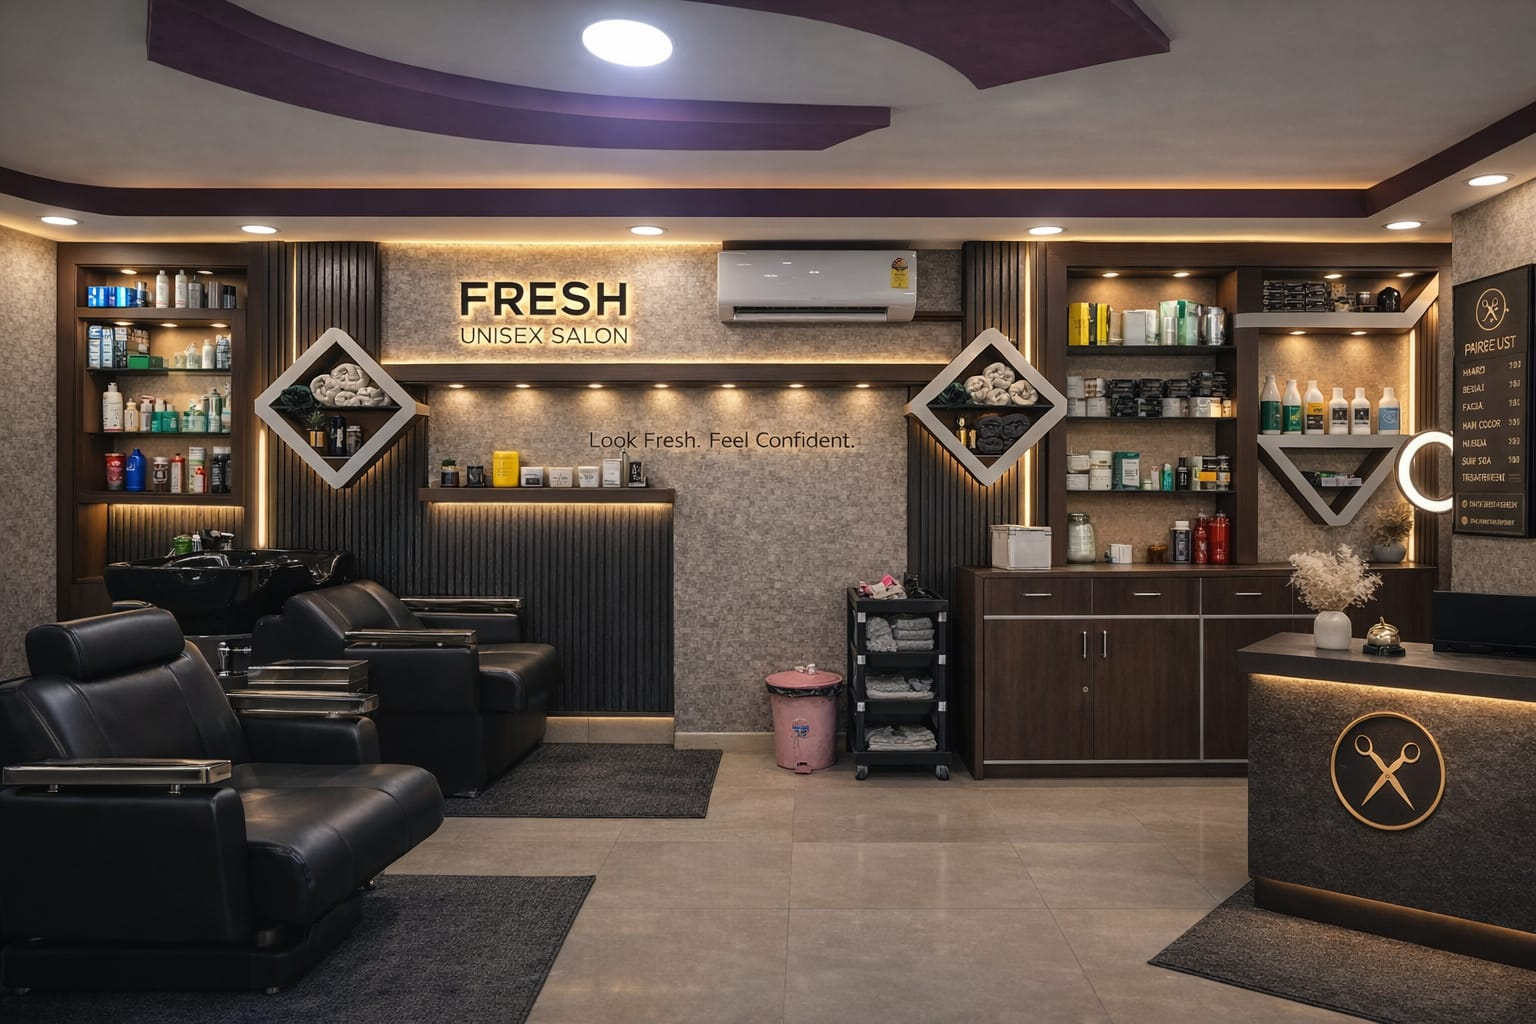
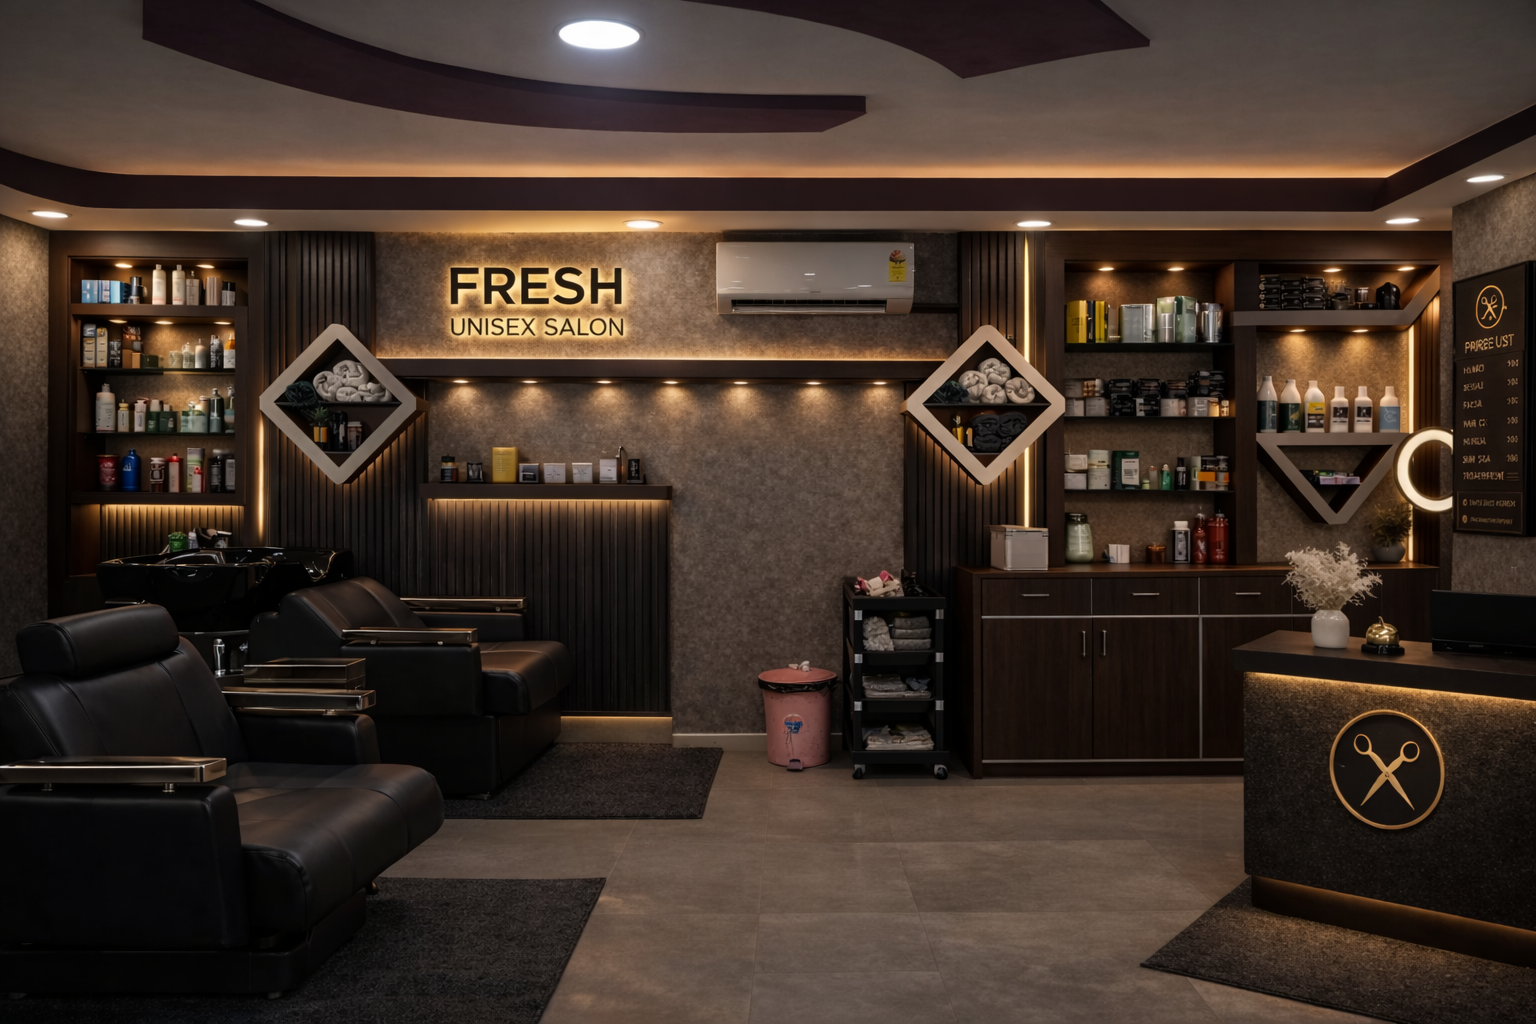
feat: refine hero UI, fix PWA manifest, and adjust mobile assets

diff --git a/src/components/HeroSection.tsx b/src/components/HeroSection.tsx
@@ -2,19 +2,34 @@ import { motion } from 'framer-motion';
 import { Star } from 'lucide-react';
 import heroImage from '@/assets/hero-image.jpg';
 
+import mobileImage from '@/assets/mobile.png';
+import dayImage from '@/assets/day.png';
+
 export function HeroSection() {
   return (
-    <section className="relative h-[calc(100svh-56px)] md:h-screen w-full overflow-hidden grain">
+    <section className="relative h-[calc(100svh-56px)] md:h-screen w-full overflow-hidden">
       {/* Image Background */}
       <div className="absolute inset-0 z-0">
+        {/* Desktop Image - Cover */}
         <img
           src={heroImage}
           alt="Fresh Unisex Saloon - Premium grooming"
-          className="w-full h-full object-cover hero-image"
+          className="hidden md:block w-full h-full object-cover hero-image"
         />
-        {/* Enhanced gradient overlay - stronger at top for text contrast */}
-        <div className="absolute inset-0 bg-black/0 dark:bg-black/40 transition-colors duration-500" />
-        <div className="absolute inset-0 bg-gradient-to-b from-background/10 via-background/20 to-background/40 dark:from-background/80 dark:via-background/40 dark:to-background/60 lg:dark:from-background/60" />
+
+        {/* Mobile Dark Image (Default) - Fill */}
+        <img
+          src={mobileImage}
+          alt="Fresh Unisex Saloon - Premium grooming"
+          className="md:hidden block [.light_&]:hidden w-full h-full object-fill hero-image"
+        />
+
+        {/* Mobile Day Image - Fill */}
+        <img
+          src={dayImage}
+          alt="Fresh Unisex Saloon - Premium grooming"
+          className="md:hidden hidden [.light_&]:block w-full h-full object-fill hero-image"
+        />
       </div>
 
       {/* Left vertical text */}
@@ -28,83 +43,9 @@ export function HeroSection() {
       <div className="relative z-20 h-full flex flex-col justify-between pt-20 pb-6 md:justify-center md:pt-20 md:pb-0 px-6 lg:px-24 lg:justify-start lg:pt-32 xl:px-32 xl:pt-40 2xl:px-40">
         {/* Main content group */}
         <div className="md:flex-1 md:flex md:flex-col md:justify-center">
-          {/* Label */}
-          <motion.p
-            initial={{ opacity: 0, y: 20 }}
-            animate={{ opacity: 1, y: 0 }}
-            transition={{ duration: 0.8, delay: 0.3 }}
-            className="font-sans text-[9px] md:text-[10px] uppercase tracking-ultra text-primary mb-4 md:mb-8 lg:mb-10 xl:mb-12"
-          >
-            Professional Grooming
-          </motion.p>
 
-          {/* Main Headline - Tighter spacing on mobile */}
-          <motion.h1
-            initial={{ opacity: 0 }}
-            animate={{ opacity: 1 }}
-            transition={{ duration: 1, delay: 0.5 }}
-            className="font-serif tracking-tight mb-5 md:mb-10 hero-text"
-          >
-            <motion.span
-              initial={{ opacity: 0, x: -30 }}
-              animate={{ opacity: 1, x: 0 }}
-              transition={{ duration: 0.8, delay: 0.6 }}
-              className="block text-foreground text-[3.25rem] sm:text-7xl md:text-8xl lg:text-9xl leading-[0.9] md:leading-[0.85] lg:leading-[0.78] xl:leading-[0.75]"
-            >
-              Fresh
-            </motion.span>
-            <motion.span
-              initial={{ opacity: 0, x: -30 }}
-              animate={{ opacity: 1, x: 0 }}
-              transition={{ duration: 0.8, delay: 0.8 }}
-              className="block text-primary italic font-normal text-[3.25rem] sm:text-7xl md:text-8xl lg:text-[10rem] xl:text-[11rem] leading-[0.9] md:leading-[0.85] lg:leading-[0.78] xl:leading-[0.75] mt-2 lg:mt-3 xl:mt-4"
-            >
-              Unisex
-            </motion.span>
-            <motion.span
-              initial={{ opacity: 0, x: -30 }}
-              animate={{ opacity: 1, x: 0 }}
-              transition={{ duration: 0.8, delay: 1 }}
-              className="block text-foreground text-[3.25rem] sm:text-7xl md:text-8xl lg:text-9xl leading-[0.9] md:leading-[0.85] lg:leading-[0.78] xl:leading-[0.75] mt-2 lg:mt-3 xl:mt-4"
-            >
-              Saloon
-            </motion.span>
-          </motion.h1>
 
-          {/* Subtext - More content on mobile */}
-          <motion.p
-            initial={{ opacity: 0 }}
-            animate={{ opacity: 1 }}
-            transition={{ duration: 0.8, delay: 1.2 }}
-            className="font-sans text-[13px] md:text-base text-foreground/70 max-w-xs md:max-w-md mb-6 md:mb-12 lg:mb-16 xl:mb-20 leading-snug"
-          >
-            Where precision meets artistry.<br />
-            Grooming crafted for the modern individual.<br />
-            15+ years of expertise.<br />
-            Trusted by 50k+ happy clients.
-          </motion.p>
 
-          {/* CTA - Stacked on mobile for better tap targets */}
-          <motion.div
-            initial={{ opacity: 0, y: 20 }}
-            animate={{ opacity: 1, y: 0 }}
-            transition={{ duration: 0.8, delay: 1.4 }}
-            className="flex flex-col gap-4 md:flex-row md:items-center md:gap-8 lg:gap-12 mt-4 md:mt-0"
-          >
-            <a
-              href="#book"
-              className="group inline-flex items-center gap-3 md:gap-4 lg:gap-6 font-sans text-[11px] lg:text-[12px] xl:text-[13px] uppercase tracking-ultra text-foreground hover:text-primary transition-colors duration-500"
-            >
-              <span className="w-10 md:w-12 lg:w-16 xl:w-20 h-px bg-primary group-hover:w-16 md:group-hover:w-20 lg:group-hover:w-24 xl:group-hover:w-28 transition-all duration-500" />
-              Book Appointment
-            </a>
-            <a
-              href="tel:+918197925360"
-              className="font-sans text-sm text-foreground/60 hover:text-foreground transition-colors pl-[52px] md:pl-0"
-            >
-              +91 81979 25360
-            </a>
-          </motion.div>
         </div>
 
         {/* Mobile info strip - at bottom */}
@@ -114,28 +55,12 @@ export function HeroSection() {
           transition={{ duration: 0.8, delay: 1.6 }}
           className="md:hidden space-y-4"
         >
-          {/* Stats row */}
-          <div className="flex items-center gap-4">
-            <div className="flex items-center gap-1">
-              {[...Array(5)].map((_, i) => (
-                <Star key={i} className="w-3 h-3 fill-primary text-primary" />
-              ))}
-            </div>
-            <span className="font-sans text-xs text-foreground/70">500+ Happy Clients</span>
-          </div>
 
-          {/* Info row */}
-          <div className="flex items-center gap-6 border-t border-border/30 pt-4">
-            <div>
-              <p className="font-sans text-[9px] uppercase tracking-ultra text-primary mb-1">Location</p>
-              <p className="font-sans text-xs text-foreground/70">Hampankatta, Mangalore</p>
-            </div>
-            <div className="w-px h-8 bg-border/30" />
-            <div>
-              <p className="font-sans text-[9px] uppercase tracking-ultra text-primary mb-1">Hours</p>
-              <p className="font-sans text-xs text-foreground/70">9AM – 9PM Daily</p>
-            </div>
-          </div>
+
+
+
+
+
         </motion.div>
       </div>
     </section>

diff --git a/index.html b/index.html
@@ -1,54 +1,60 @@
 <!doctype html>
 <html lang="en">
-  <head>
-    <meta charset="UTF-8" />
-    <meta name="viewport" content="width=device-width, initial-scale=1.0" />
-    
-    <!-- Primary Meta Tags -->
-    <title>Fresh Unisex Saloon | Premium Grooming in Mangalore</title>
-    <meta name="title" content="Fresh Unisex Saloon | Premium Grooming in Mangalore" />
-    <meta name="description" content="Fresh Unisex Saloon offers premium haircuts, beard styling, facials & grooming services in Hampankatta, Mangalore. Book your appointment today!" />
-    <meta name="keywords" content="saloon mangalore, unisex salon, haircut mangalore, beard styling, grooming, hampankatta salon, fresh unisex saloon, best salon mangalore" />
-    <meta name="author" content="Fresh Unisex Saloon" />
-    <meta name="robots" content="index, follow" />
-    <link rel="canonical" href="https://freshunisexsaloon.com" />
 
-    <!-- Open Graph / Facebook -->
-    <meta property="og:type" content="website" />
-    <meta property="og:url" content="https://freshunisexsaloon.com" />
-    <meta property="og:title" content="Fresh Unisex Saloon | Premium Grooming in Mangalore" />
-    <meta property="og:description" content="Premium haircuts, beard styling & grooming services in Hampankatta, Mangalore. Where style meets precision." />
-    <meta property="og:image" content="/og-image.jpg" />
-    <meta property="og:locale" content="en_IN" />
-    <meta property="og:site_name" content="Fresh Unisex Saloon" />
+<head>
+  <meta charset="UTF-8" />
+  <meta name="viewport" content="width=device-width, initial-scale=1.0" />
 
-    <!-- Twitter -->
-    <meta name="twitter:card" content="summary_large_image" />
-    <meta name="twitter:url" content="https://freshunisexsaloon.com" />
-    <meta name="twitter:title" content="Fresh Unisex Saloon | Premium Grooming in Mangalore" />
-    <meta name="twitter:description" content="Premium haircuts, beard styling & grooming services in Hampankatta, Mangalore." />
-    <meta name="twitter:image" content="/og-image.jpg" />
+  <!-- Primary Meta Tags -->
+  <title>Fresh Unisex Saloon | Premium Grooming in Mangalore</title>
+  <meta name="title" content="Fresh Unisex Saloon | Premium Grooming in Mangalore" />
+  <meta name="description"
+    content="Fresh Unisex Saloon offers premium haircuts, beard styling, facials & grooming services in Hampankatta, Mangalore. Book your appointment today!" />
+  <meta name="keywords"
+    content="saloon mangalore, unisex salon, haircut mangalore, beard styling, grooming, hampankatta salon, fresh unisex saloon, best salon mangalore" />
+  <meta name="author" content="Fresh Unisex Saloon" />
+  <meta name="robots" content="index, follow" />
+  <link rel="canonical" href="https://freshunisexsaloon.com" />
 
-    <!-- Geo Tags for Local SEO -->
-    <meta name="geo.region" content="IN-KA" />
-    <meta name="geo.placename" content="Mangalore" />
-    <meta name="geo.position" content="12.8714;74.8420" />
-    <meta name="ICBM" content="12.8714, 74.8420" />
+  <!-- Open Graph / Facebook -->
+  <meta property="og:type" content="website" />
+  <meta property="og:url" content="https://freshunisexsaloon.com" />
+  <meta property="og:title" content="Fresh Unisex Saloon | Premium Grooming in Mangalore" />
+  <meta property="og:description"
+    content="Premium haircuts, beard styling & grooming services in Hampankatta, Mangalore. Where style meets precision." />
+  <meta property="og:image" content="/og-image.jpg" />
+  <meta property="og:locale" content="en_IN" />
+  <meta property="og:site_name" content="Fresh Unisex Saloon" />
 
-    <!-- Theme Color -->
-    <meta name="theme-color" content="#0a0a0a" />
-    <meta name="msapplication-TileColor" content="#0a0a0a" />
-    
-    <!-- PWA Meta Tags -->
-    <meta name="apple-mobile-web-app-capable" content="yes" />
-    <meta name="apple-mobile-web-app-status-bar-style" content="black-translucent" />
-    <meta name="apple-mobile-web-app-title" content="Fresh Saloon" />
-    <link rel="icon" type="image/png" href="/favicon.png" />
-    <link rel="apple-touch-icon" href="/favicon.png" />
-    <link rel="manifest" href="/manifest.webmanifest" />
+  <!-- Twitter -->
+  <meta name="twitter:card" content="summary_large_image" />
+  <meta name="twitter:url" content="https://freshunisexsaloon.com" />
+  <meta name="twitter:title" content="Fresh Unisex Saloon | Premium Grooming in Mangalore" />
+  <meta name="twitter:description"
+    content="Premium haircuts, beard styling & grooming services in Hampankatta, Mangalore." />
+  <meta name="twitter:image" content="/og-image.jpg" />
 
-    <!-- JSON-LD Structured Data -->
-    <script type="application/ld+json">
+  <!-- Geo Tags for Local SEO -->
+  <meta name="geo.region" content="IN-KA" />
+  <meta name="geo.placename" content="Mangalore" />
+  <meta name="geo.position" content="12.8714;74.8420" />
+  <meta name="ICBM" content="12.8714, 74.8420" />
+
+  <!-- Theme Color -->
+  <meta name="theme-color" content="#0a0a0a" />
+  <meta name="msapplication-TileColor" content="#0a0a0a" />
+
+  <!-- PWA Meta Tags -->
+  <meta name="mobile-web-app-capable" content="yes" />
+  <meta name="apple-mobile-web-app-capable" content="yes" />
+  <meta name="apple-mobile-web-app-status-bar-style" content="black-translucent" />
+  <meta name="apple-mobile-web-app-title" content="Fresh Saloon" />
+  <link rel="icon" type="image/png" href="/favicon.png" />
+  <link rel="apple-touch-icon" href="/favicon.png" />
+  <link rel="manifest" href="/manifest.webmanifest" />
+
+  <!-- JSON-LD Structured Data -->
+  <script type="application/ld+json">
     {
       "@context": "https://schema.org",
       "@type": "HairSalon",
@@ -79,10 +85,11 @@
       "servesCuisine": "Hair Salon"
     }
     </script>
-  </head>
+</head>
 
-  <body>
-    <div id="root"></div>
-    <script type="module" src="/src/main.tsx"></script>
-  </body>
+<body>
+  <div id="root"></div>
+  <script type="module" src="/src/main.tsx"></script>
+</body>
+
 </html>

diff --git a/src/components/GoogleReviewButton.tsx b/src/components/GoogleReviewButton.tsx
@@ -1,16 +1,57 @@
 import { motion } from 'framer-motion';
+import { useState, useEffect } from 'react';
 
 const GOOGLE_REVIEW_URL = 'https://g.page/r/CS_Lg-PpHrxEEBM/review';
 
 export function GoogleReviewButton() {
+  const [isVisible, setIsVisible] = useState(true);
+
+  useEffect(() => {
+    let timeout: NodeJS.Timeout;
+
+    const handleActivity = () => {
+      setIsVisible(true);
+      clearTimeout(timeout);
+
+      // Only hide after 3s on mobile
+      if (window.innerWidth < 768) {
+        timeout = setTimeout(() => {
+          setIsVisible(false);
+        }, 3000);
+      }
+    };
+
+    // Initial check
+    handleActivity();
+
+    window.addEventListener('touchstart', handleActivity);
+    window.addEventListener('touchmove', handleActivity);
+    window.addEventListener('touchend', handleActivity);
+    window.addEventListener('scroll', handleActivity);
+    window.addEventListener('click', handleActivity);
+
+    return () => {
+      clearTimeout(timeout);
+      window.removeEventListener('touchstart', handleActivity);
+      window.removeEventListener('touchmove', handleActivity);
+      window.removeEventListener('touchend', handleActivity);
+      window.removeEventListener('scroll', handleActivity);
+      window.removeEventListener('click', handleActivity);
+    };
+  }, []);
+
   return (
     <motion.a
       href={GOOGLE_REVIEW_URL}
       target="_blank"
       rel="noopener noreferrer"
       initial={{ opacity: 0, y: 20 }}
-      animate={{ opacity: 1, y: 0 }}
-      transition={{ delay: 2, duration: 0.5 }}
+      animate={{
+        opacity: isVisible ? 1 : 0,
+        y: isVisible ? 0 : 20,
+        pointerEvents: isVisible ? 'auto' : 'none'
+      }}
+      transition={{ duration: 0.3 }}
       className="fixed bottom-24 md:bottom-8 right-4 md:right-6 z-50"
       aria-label="Leave a Google Review"
     >

diff --git a/vite.config.ts b/vite.config.ts
@@ -30,19 +30,19 @@ export default defineConfig(({ mode }) => ({
         start_url: '/',
         icons: [
           {
-            src: '/logo.jpg',
-            sizes: 'any',
-            type: 'image/jpeg',
+            src: '/pwa-192x192.png',
+            sizes: '192x192',
+            type: 'image/png',
           },
           {
-            src: '/logo.jpg',
-            sizes: 'any',
-            type: 'image/jpeg',
+            src: '/pwa-512x512.png',
+            sizes: '512x512',
+            type: 'image/png',
           },
           {
-            src: '/logo.jpg',
-            sizes: 'any',
-            type: 'image/jpeg',
+            src: '/pwa-512x512.png',
+            sizes: '512x512',
+            type: 'image/png',
             purpose: 'any maskable',
           },
         ],

diff --git a/src/components/GallerySection.tsx b/src/components/GallerySection.tsx
@@ -67,7 +67,7 @@ export function GallerySection() {
                 <img
                   src={image.src}
                   alt="Fresh Saloon"
-                  className="w-full h-full object-cover lg:grayscale lg:hover:grayscale-0 transition-all duration-700"
+                  className="w-full h-full object-cover grayscale hover:grayscale-0 transition-all duration-700"
                 />
               </motion.div>
             ))}

diff --git a/src/components/ContactSection.tsx b/src/components/ContactSection.tsx
@@ -1,7 +1,7 @@
 import { motion } from 'framer-motion';
 import { useInView } from 'framer-motion';
 import { useRef } from 'react';
-import { MapPin, Phone, Clock, Instagram, MessageCircle } from 'lucide-react';
+import { Instagram, MessageCircle } from 'lucide-react';
 
 export function ContactSection() {
   const ref = useRef(null);

diff --git a/src/index.css b/src/index.css
@@ -161,7 +161,7 @@
   
   /* Hero image - theme aware */
   .hero-image {
-    opacity: 0.5;
+    opacity: 1;
   }
   
   .hero-overlay {
